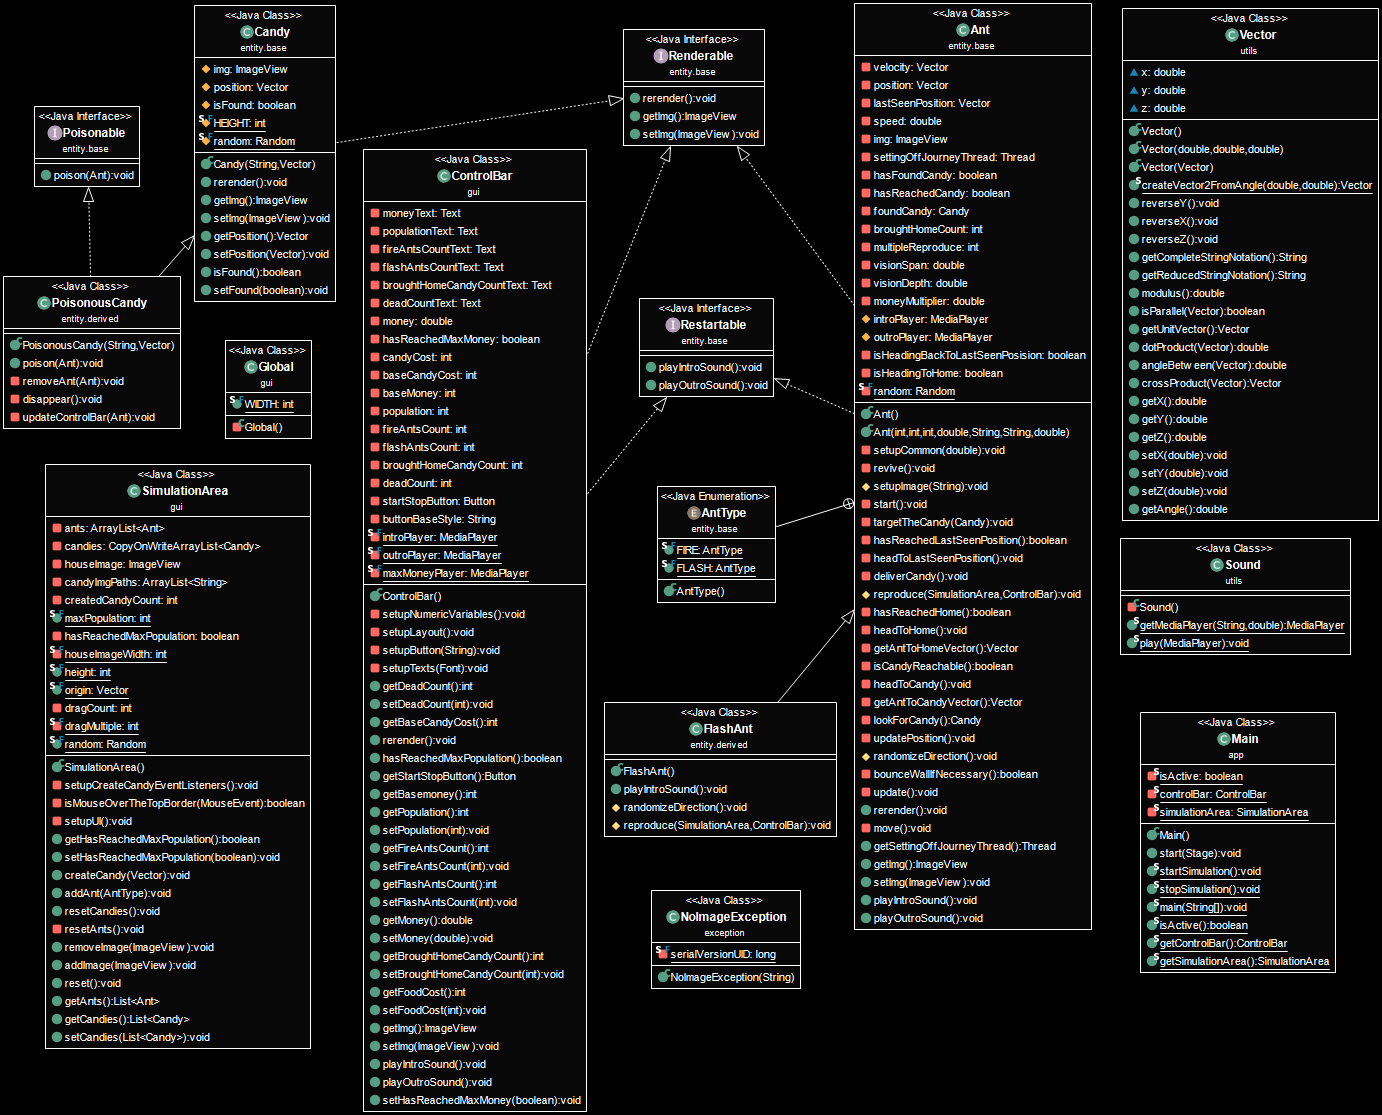
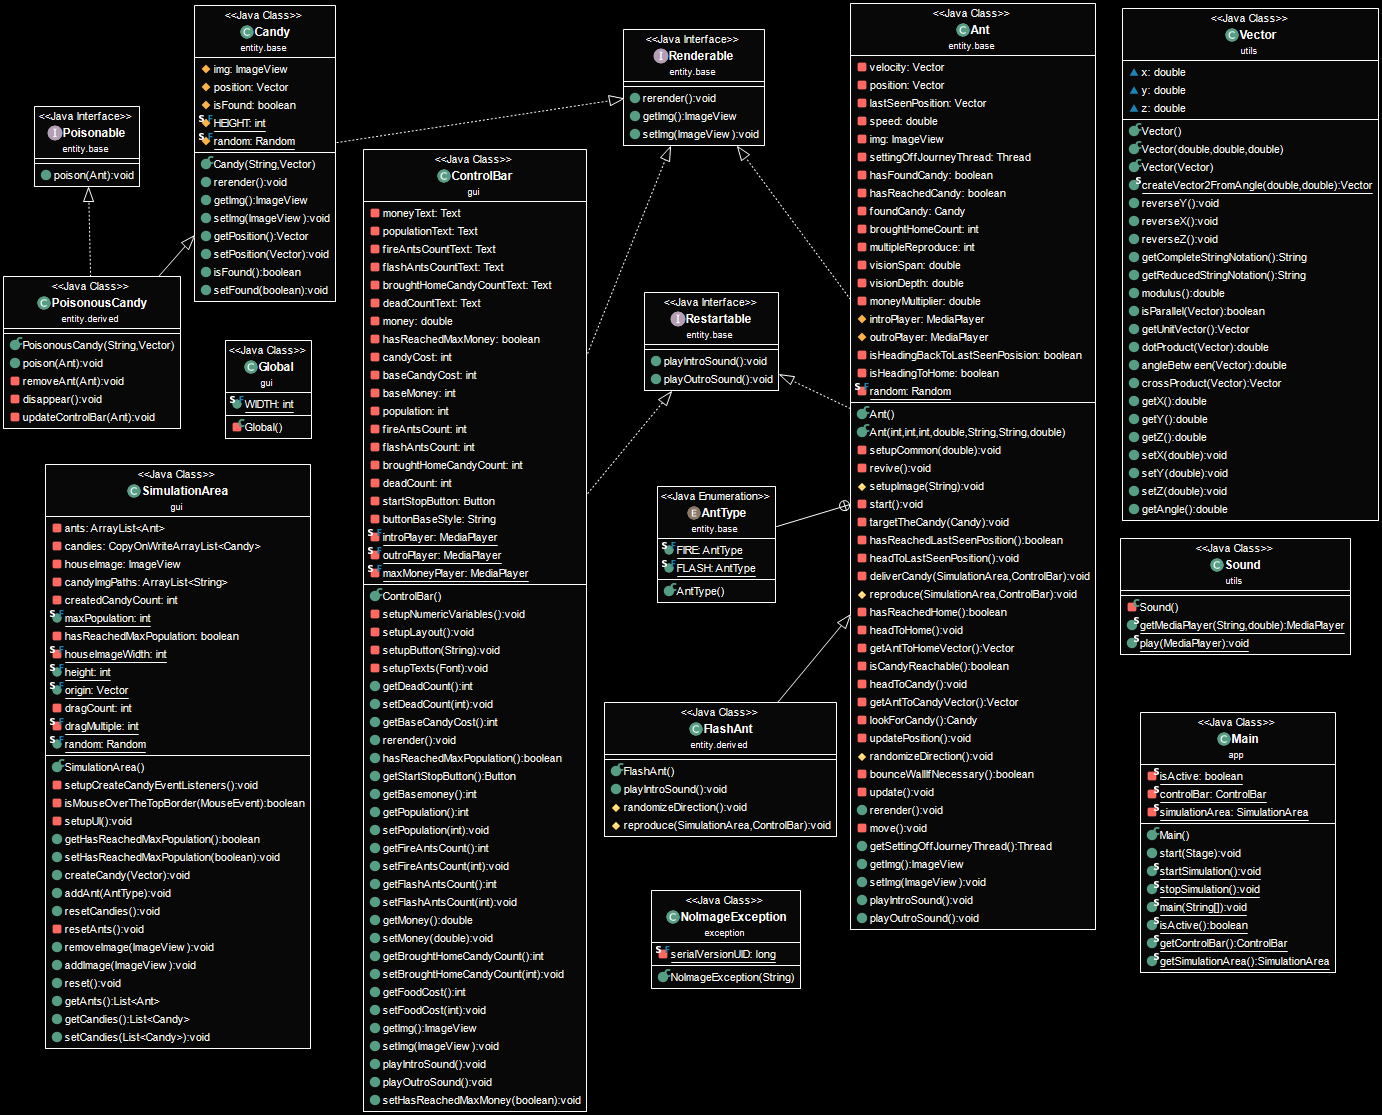
refactor

Changed region(s): [[0.4667, 0.0305, 0.7779, 0.8538]]

diff --git a/src/entity/base/Ant.java b/src/entity/base/Ant.java
@@ -193,7 +193,10 @@ public class Ant implements Renderable, Restartable {
 							((Poisonable) this.foundCandy).poison(this);
 
 						if (this.hasReachedHome()) {
-							this.deliverCandy();
+							final var simulationArea = Main.getSimulationArea();
+							final var controlBar = Main.getControlBar();
+							this.deliverCandy(simulationArea, controlBar);
+							this.reproduce(simulationArea, controlBar);
 							this.isHeadingToHome = false;
 							this.headToLastSeenPosition();
 						}
@@ -248,9 +251,11 @@ public class Ant implements Renderable, Restartable {
 	/**
 	 * Delivers candy. This removes the existence of a recently brought candy and
 	 * update status values.
+	 * 
+	 * @param simulationArea the simulation area
+	 * @param controlBar     the control bar
 	 */
-	private void deliverCandy() {
-		final var simulationArea = Main.getSimulationArea();
+	private void deliverCandy(SimulationArea simulationArea, ControlBar controlBar) {
 		Platform.runLater(() -> {
 			final ImageView foundFoodImage = this.foundCandy.getImg();
 			foundFoodImage.setVisible(false);
@@ -261,12 +266,9 @@ public class Ant implements Renderable, Restartable {
 		});
 
 		++this.broughtHomeCount;
-		final var controlBar = Main.getControlBar();
 		controlBar.setBroughtHomeCandyCount(controlBar.getBroughtHomeCandyCount() + 1);
 		controlBar.setMoney(controlBar.getMoney() + controlBar.getFoodCost() * this.moneyMultiplier);
 		controlBar.rerender();
-
-		this.reproduce(simulationArea, controlBar);
 	}
 
 	/**
